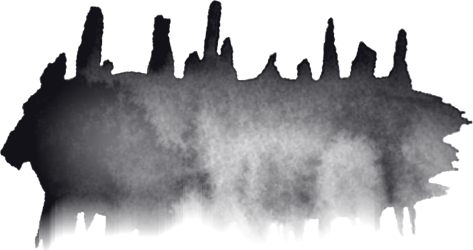
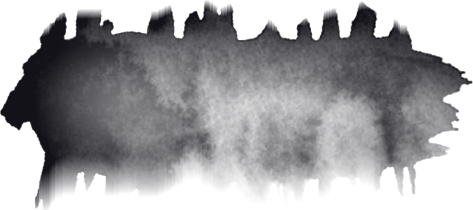
No finger posts: sheet Z's stout tree tops cut off, code crest grains shrunk beside sheet Y's tree lines

diff --git a/web/room/paint.js b/web/room/paint.js
@@ -442,7 +442,7 @@
       // many small dabs crowding each other, each one press of the brush tip: upright grains, round dots, a small moss cluster.
       for (let x = bx0 + 0.02 * H; x < bx1 - 0.02 * H; x += H * (0.0016 + 0.0034 * Rv())) { const k = col(x), hi = 0.3 + 0.7 * sm((yBase - top[k]) / span / 0.6), stand = sm((N(x / (0.05 * H) + 500, 2) - 0.4) / 0.14);
         if (depth[k] < 0.05 * H || Rv() > amt * hi * (0.04 + 0.96 * stand)) continue;
-        const r = Rv(), sz = H * (0.0035 + 0.006 * Rv() * Rv()) * (0.75 + 0.5 * stand), y = top[k] + 0.002 * H - sz * 1.2 * Rv() * stand; g.globalAlpha = 0.55 + 0.4 * Rv();
+        const r = Rv(), sz = H * (0.0035 + 0.006 * Rv() * Rv()) * (0.75 + 0.5 * stand) * (S.tex !== 'code' && (STROKES.muse_yl || []).length ? 0.45 : 1) /* beside sheet Y's tree lines the upright code grains stood on the ridge as a row of fingers (Yang 11-19): now only a fine bristle */, y = top[k] + 0.002 * H - sz * 1.2 * Rv() * stand; g.globalAlpha = 0.55 + 0.4 * Rv();
         if (r < 0.55) { g.beginPath(); g.ellipse(x, y - sz * 0.5, sz * (0.22 + 0.2 * Rv()), sz * (0.6 + 0.5 * Rv()), (Rv() - 0.5) * 0.7, 0, 6.2832); g.fill(); }
         else if (r < 0.85 || !kM.length || (S.tex !== 'code' && (STROKES.muse_yl || []).length)) {   /* with sheet Y's tree lines on the crest the large moss clusters read as bubbles beside them */ g.beginPath(); g.ellipse(x, y - sz * 0.3, sz * (0.3 + 0.25 * Rv()), sz * (0.28 + 0.2 * Rv()), Rv() * 3, 0, 6.2832); g.fill(); }
         else { const q = kM[Math.floor(Rv() * kM.length) % kM.length], w = sz * (2.2 + 1.5 * Rv()), h = w * q.h / q.w; g.drawImage(q.im, x - w / 2, y - h * 0.8, w, h); } }

diff --git a/tools/build_inklines.py b/tools/build_inklines.py
@@ -191,6 +191,7 @@ def rowsheet(key, ink, sufs, thr=0.1, gap=9, blob=None, top=0, skirt=None):
             if skirt and skirt[j]:   # sheet Z: under a wood the wet ink ran down in long drips. Kept: from its upper edge (tree tops smoothed over) down by that share of its height, then faded out
                 q = q[rows[0]:rows[-1] + 1]; hq = q.shape[0]; t0 = np.where((q > thr).any(axis=0), (q > thr).argmax(axis=0), hq).astype(np.float32)
                 t0 = ndi.median_filter(t0, size=int(81 * u) | 1, mode='nearest'); q = q * np.clip((t0[None, :] + (skirt[j] + 0.12) * hq - np.arange(hq)[:, None]) / (0.12 * hq), 0, 1)
+                q = q * np.clip((np.arange(hq)[:, None] - t0[None, :] + 0.035 * hq) / (0.03 * hq), 0, 1)   # and the sheet's tree tops: stout posts, in the painting a row of fingers on a ridge and tombstones in the wood (Yang 11-19). Cut off at the wood's upper edge; tree tops come from sheet Y
                 rows = np.nonzero(q.max(axis=1) > thr)[0]
             cols = np.nonzero(q.max(axis=0) > thr)[0]
             save(key + suf, k, q[rows[0]:rows[-1] + 1, cols[0]:cols[-1] + 1]); k += 1
